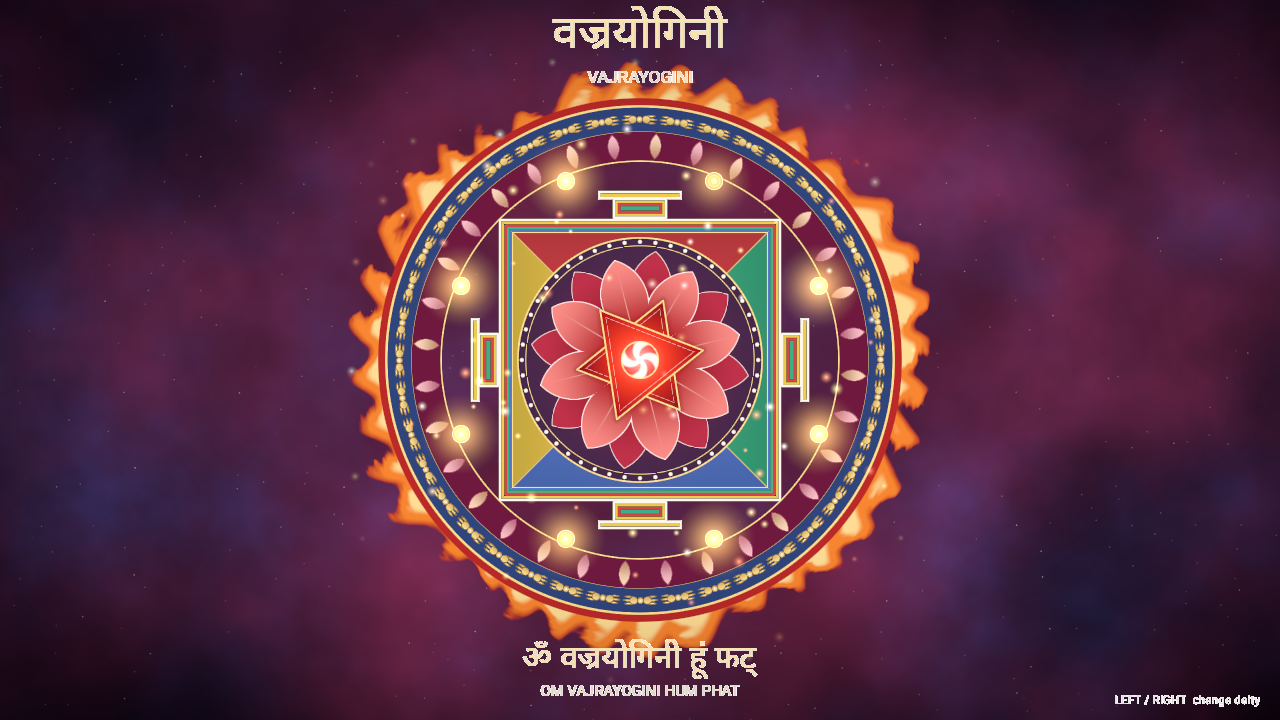
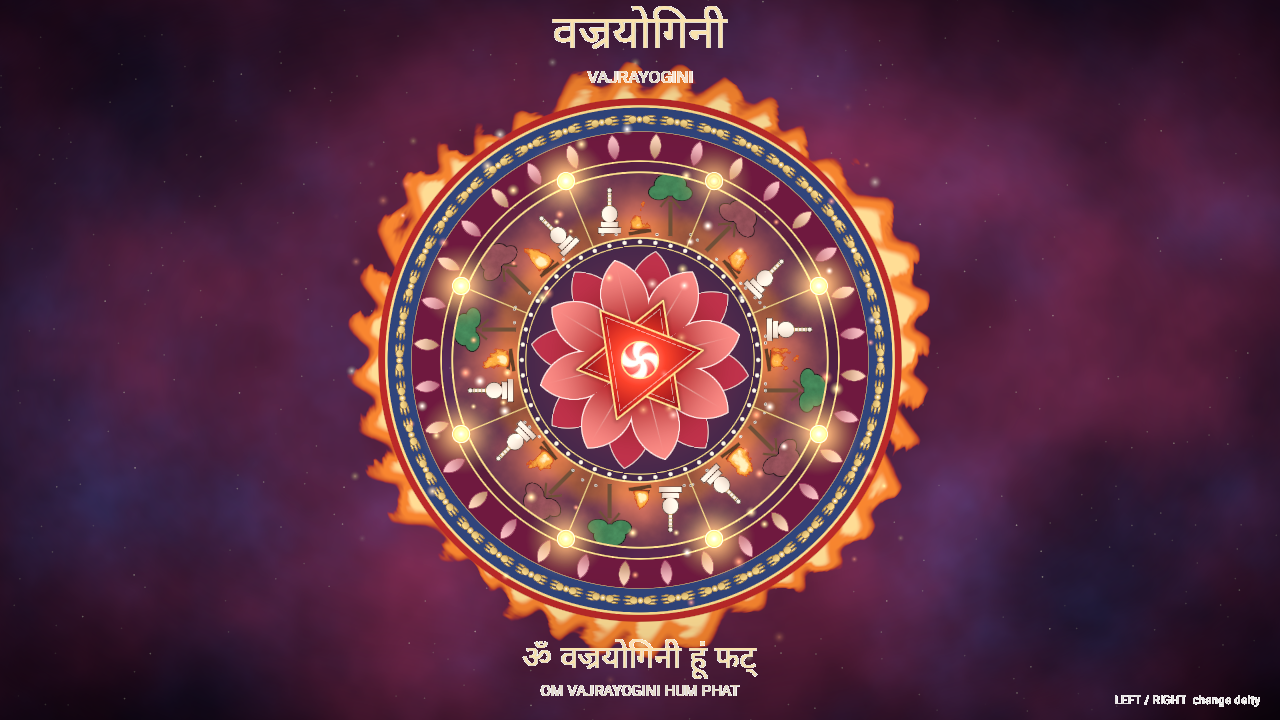
Dakini temple: the eight charnel grounds around Vajrayogini
mandala.frag: the palace layer takes the deity. For Vajrayogini it draws
a ring of eight charnel grounds between the courtyard and the petal ring
instead of the four-gated palace; Green Tara, White Tara and Vajrapani
keep the palace. Each ground stands upright on the inner edge with a
tree, a stupa, a burning pyre that lights its surroundings and a row of
skulls. Odd grounds are mirrored and change tree colour, and the gold
dividers lie at the angles of the eight butter lamps. The palace quad is
6.0 units so the ring fits inside it.

python_capture.py hands the example a sys.argv holding only its own
path, so examples that parse arguments (showroom, museum) run under it.

The docs screenshot is captured again with the charnel grounds.

Changed region(s): [[0.3438, 0.2139, 0.6562, 0.7639]]

diff --git a/examples/python/games_2d/dakini_temple/temple.py b/examples/python/games_2d/dakini_temple/temple.py
@@ -5,7 +5,9 @@ A top-down mandala palace, seen from above:
 
   - a ring of wisdom fire, a vajra fence and a ring of lotus petals
   - a palace with five-coloured walls and a gate in each direction, its
-    ground split into the blue, yellow, red and green quarters
+    ground split into the blue, yellow, red and green quarters; for
+    Vajrayogini, a ring of the eight charnel grounds in its place, each with
+    a tree, a stupa, a burning pyre and skulls
   - an eight-petalled lotus holding the deity's symbol at the centre
   - eight butter lamps and embers that spiral out into space
 
@@ -336,7 +338,7 @@ def build_mandala():
     petals = mandala_quad(PETALS, (7.2, 7.2), sort_key=3)
     engine.ecs.set_component(petals, "Spin", Spin(0.04))
 
-    palace = mandala_quad(PALACE, (5.4, 5.4), sort_key=4)
+    palace = mandala_quad(PALACE, (6.0, 6.0), sort_key=4)
 
     lotus = mandala_quad(LOTUS, (3.6, 3.6), sort_key=5)
     engine.ecs.set_component(lotus, "Spin", Spin(0.08))

diff --git a/tools/docs_capture/python_capture.py b/tools/docs_capture/python_capture.py
@@ -20,4 +20,7 @@ class CaptureEngine:
             ok=self._engine.capture_screenshot(os.environ['DOCS_CAPTURE_PATH'])
             print('DOCS_CAPTURE_RESULT',ok,flush=True)
 sk.Engine=CaptureEngine
-runpy.run_path(sys.argv[1],run_name='__main__')
+# The example parses sys.argv as if run directly, so it sees only its own path.
+script=sys.argv[1]
+sys.argv=[script]
+runpy.run_path(script,run_name='__main__')
